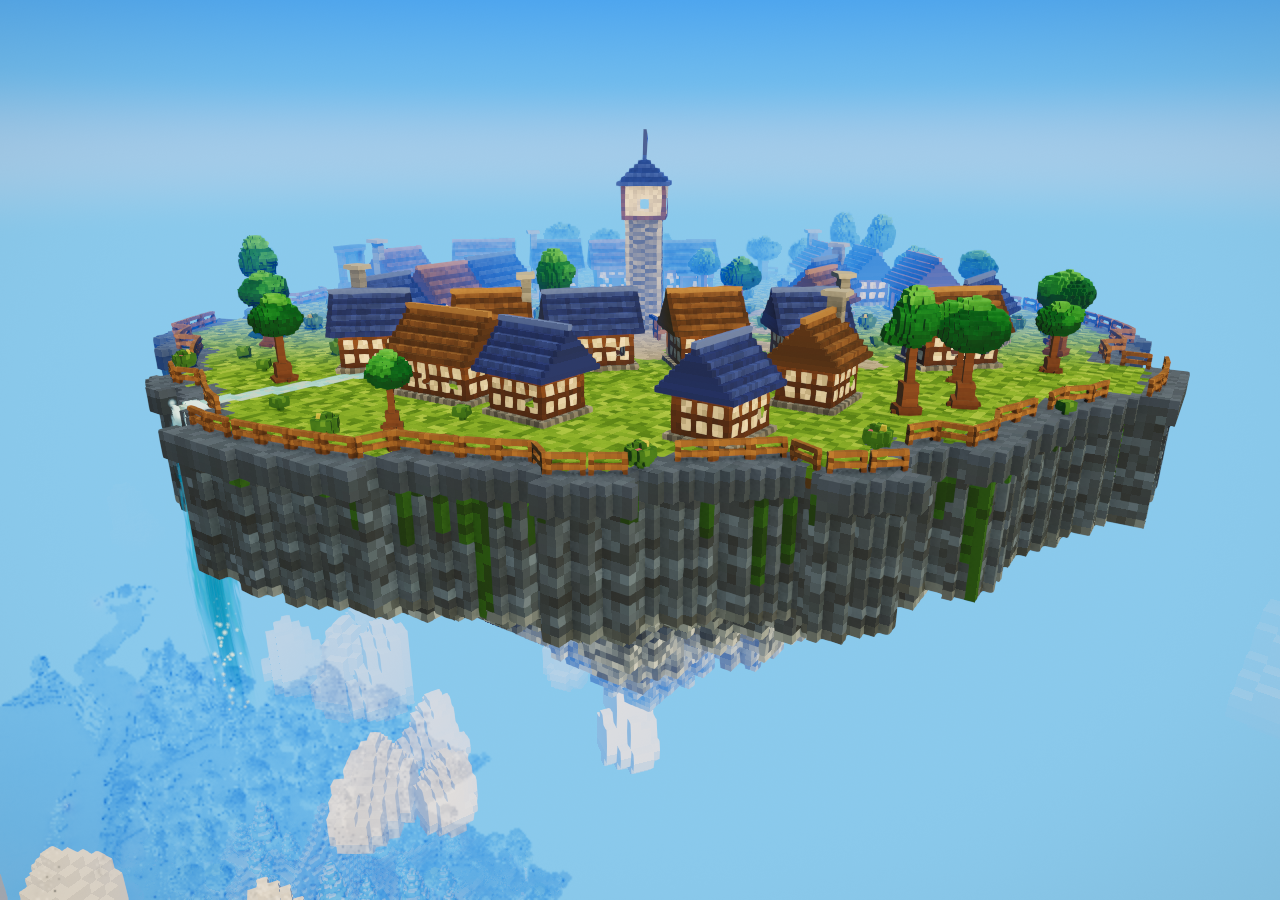
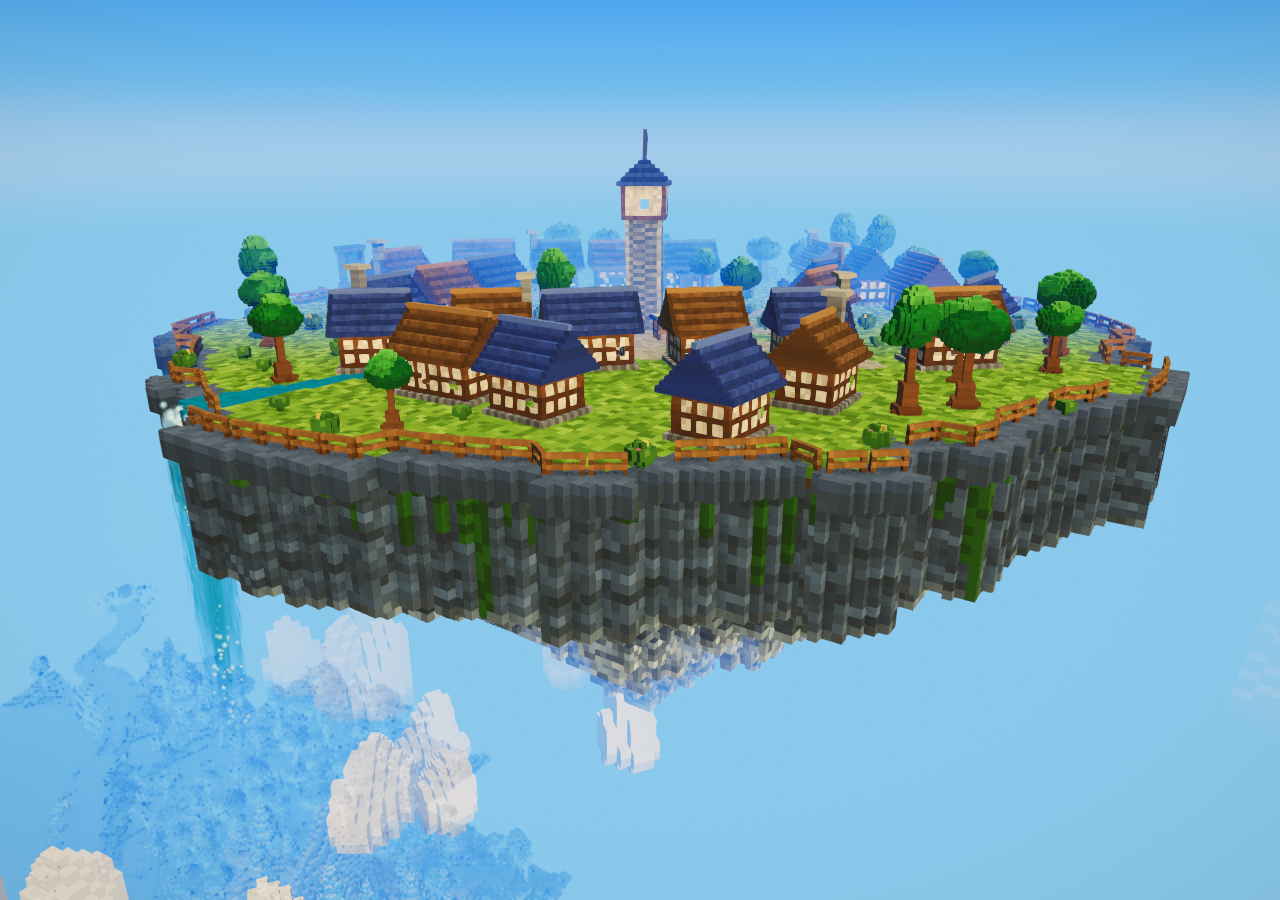
The lip is where a fall is judged (issue #86)
Five fixes, all found by playing rather than by a probe, and four of them
are at the LIP — which is the one place a player is guaranteed to walk to
and look closely, because that is where you go to see the drop.

THE ANCHOR IS ON THE OUTLINE, not a cell inboard of it. The voxel fall
started inboard and that was right for cubes: they were part of the rock
mesh, so a fall hung off the last column had nothing drawn above its
head. A sheet is a separate object standing clear of the rock, and
starting it inboard tucks its head UNDER the rim — the water appears to
come out of the cliff face a course below the turf instead of going over
the edge.

THE CHANNEL FLARES TO THE FALL'S OWN WIDTH. It ran at a constant 1.9 of
half-width, about three cells, and the plume leaves six across, so the
outermost columns either side of the water came out as the rim's grey
stone. `FALL_LIP` is now one constant feeding both `onStream`'s mouth and
the effect's `lipWidth`, so they cannot drift apart. Its outer bound is
gone too: it stopped at `ISLAND_R`, the radius of a CIRCLE, but the
outline is a lobed stagger and the projection is shorter off the
centreline, so the test refused the last column on some bearings and not
on others. The column loop already skips everything past the outline.

ONE BEND, NOT AN S. The wander was carried over from the voxel fall as a
rate per world unit, which over a 48-unit drop is one and a third cycles.
[…]

Changed region(s): [[0.125, 0.4044, 0.2812, 0.7778]]

diff --git a/src/world/sky-island.ts b/src/world/sky-island.ts
@@ -695,9 +695,20 @@ const PATH_D = 0x9e9787;
 /** Tilled soil: the garden plots between the houses. */
 const TILL = 0x6a4a2c;
 const TILL_D = 0x513716;
-/** The stream and the fall. Pale, so it stays visible against the sky. */
-const WATER = 0x8fd8ec;
-const WATER_L = 0xbceaf6;
+/**
+ * The stream on the deck. (The FALL is world/waterfall.ts and carries its own.)
+ *
+ * SPEC §6's teal, and it used to be a pale 0x8fd8ec / 0xbceaf6 chosen to "stay
+ * visible against the sky" — which was solving the wrong problem, because the
+ * channel is seen against GRASS from above and against grass and rim-stone at
+ * the lip; the sky is behind the fall, not behind the stream. Read close up at
+ * the outflow the pale version was almost white, and it met the fall's SPEC
+ * teal in a hard step at exactly the spot a player walks to and looks over.
+ * These are SPEC §6's `#1E8AA2` lit and `#1E7E96` body, which is what the fall
+ * is built from — one water colour on this island now, not two.
+ */
+const WATER = 0x1e7e96;
+const WATER_L = 0x1e8aa2;
 
 /** Per-voxel value jitter, so a face is not one flat colour. */
 function shade(hex: number, k: number): number {
@@ -763,6 +774,18 @@ interface SkyPlan {
  * the market, and every street runs to its rim.
  */
 const PLAZA = 19;
+
+/**
+ * How wide the water is where it leaves the rim, in world units.
+ *
+ * ONE NUMBER FOR TWO THINGS, and that is the point: it is the effect's
+ * `lipWidth` AND the width the stream channel flares to at its mouth. They were
+ * separate at first — a 3.8-unit channel feeding a 7.2-unit plume — and the
+ * result is a ring of rim-stone showing either side of the water at the exact
+ * spot the player walks to and looks over. 2 map-blocks, which is what SPEC §6
+ * gives the lip.
+ */
+const FALL_LIP = MAP_BLOCK * 2 * CELL;
 /** The band the dwellings stand in, as fractions of the island radius. */
 const HOUSE_IN = 0.34;
 const HOUSE_OUT = 0.62;
@@ -1467,6 +1490,9 @@ export class SkyIsland extends CarrierBody implements NpcFrame {
         // dissolves there rather than stopping square, which is what SPEC §6
         // asks for and what the cubes were tuned to.
         length: 40 * CELL,
+        // The same constant `onStream` flares its mouth to, so the water on the
+        // deck and the water going over it are the same width by construction.
+        lipWidth: FALL_LIP,
         // A LIGHT, STEADY DRIFT. The island cruises at 1 unit/s, so the plume
         // is not being blown by its own passage — this is the prevailing wind
         // at altitude, and it is small because the fall's own wander already
@@ -1845,18 +1871,22 @@ export class SkyIsland extends CarrierBody implements NpcFrame {
   /**
    * The rim column the fall leaves from, in the island's own frame.
    *
-   * Lifted verbatim out of the voxel fall this replaced, so the effect starts
-   * on exactly the column the cubes did: one cell INBOARD of the outline,
-   * because a fall has to leave a lip you can stand at and look over. Starting
-   * it half a cell past the edge — which an earlier pass did — hangs it in the
-   * air beside the island like a pipe with nothing at the top of it.
+   * ON the outline, not one cell inboard of it.
+   *
+   * The voxel fall this replaced started a cell in, and that was right for
+   * CUBES: they were part of the rock mesh, so a fall hung off the last column
+   * had nothing drawn above its head. A sheet is a separate object standing
+   * clear of the rock, and starting it inboard tucks its head UNDER the rim —
+   * the water appears to come out of the cliff face a course below the turf
+   * instead of going over the edge, which is the one thing a lip has to read
+   * as. Reported from play.
    *
    * Local y is 0, which is the TOP of the turf course and therefore what
    * `localDeck` answers: the water leaves at the surface it has been running
    * along, not at the rim's rock.
    */
   private fallAnchor(plan: SkyPlan): { x: number; y: number; z: number } {
-    const rimD = outlineAt(plan.fallAngle, this.phase) - 1;
+    const rimD = outlineAt(plan.fallAngle, this.phase);
     const gx0 = Math.round(Math.sin(plan.fallAngle) * rimD);
     const gz0 = Math.round(Math.cos(plan.fallAngle) * rimD);
     // Cell CENTRES, matching how `buildRock` converts a cell to a world column.
@@ -1898,14 +1928,43 @@ export class SkyIsland extends CarrierBody implements NpcFrame {
     const onPlot = (wx: number, wz: number): boolean =>
       plan.plots.some((g) => (wx - g.x) ** 2 + (wz - g.z) ** 2 < g.r * g.r);
 
-    /** The stream: a two-cell channel from the square to the rim. */
+    /**
+     * The stream: a two-cell channel from the square to the rim, FLARING to the
+     * fall's own lip width over its last stretch.
+     *
+     * THE MOUTH HAS TO BE AS WIDE AS THE FALL. At a constant 1.9 of half-width
+     * the channel is about three cells across and the plume leaves six across,
+     * so the outermost columns either side of the water came out as the rim's
+     * grey stone — and the one place a player is guaranteed to stand and look
+     * closely at this is the lip, because that is where you go to see the drop.
+     * `FALL_LIP` is the same constant the effect is built from, so the two
+     * cannot drift apart.
+     *
+     * NO OUTER BOUND. It used to stop at `ISLAND_R`, which is the radius of a
+     * CIRCLE — but the outline is a lobed stagger that reaches 0.998 of it at
+     * the peak and the projection `along` is shorter still off the centreline,
+     * so the test could refuse the last column or two on some bearings and not
+     * on others. The column loop already skips everything past the outline;
+     * there is nothing out there for this to answer about.
+     */
     const fx = Math.sin(plan.fallAngle);
     const fz = Math.cos(plan.fallAngle);
     const onStream = (wx: number, wz: number): boolean => {
       const along = wx * fx + wz * fz;
-      if (along < PLAZA * 0.7 || along > ISLAND_R) return false;
+      if (along < PLAZA * 0.7) return false;
       const across = Math.abs(wx * fz - wz * fx);
-      return across < 1.9;
+      // Flare over the last THIRD of the run, so the channel reads as a stream
+      // widening into a mouth rather than as a funnel bolted to a pipe. A fifth
+      // was the first try and it is too short: smoothstep spends most of its
+      // range near its ends, so over 19 units the widening happened almost
+      // entirely in the last four and the mouth still read as a pipe.
+      const t = Math.max(0, Math.min(1, (along - ISLAND_R * 0.66) / (ISLAND_R * 0.34)));
+      const flare = t * t * (3 - 2 * t);
+      // A full cell of margin past the plume's own half-width: the water has to
+      // reach UNDER the sheet's edge, not merely meet it, or the outermost
+      // column either side of the fall comes back as rim-stone.
+      const halfW = 1.9 + flare * (FALL_LIP * 0.5 + CELL - 1.9);
+      return across < halfW;
     };
 
     for (let gx = -R; gx <= R; gx++) {

diff --git a/src/world/waterfall.ts b/src/world/waterfall.ts
@@ -195,13 +195,27 @@ const MASK = 256;
 const PUSH_EXP = 1.35;
 
 /**
- * ...and it WANDERS. Carried over from the voxel fall, which tuned it in cells:
- * `sin(k * 0.21) * 1.4` at CELL 1.2 is 0.21/1.2 = 0.175 rad per world unit and
- * 1.4 * 1.2 = 1.68 units of amplitude. A perfectly straight column reads as a
- * ruler drawn on the sky.
+ * ...and it BOWS. A perfectly straight column reads as a ruler drawn on the sky.
+ *
+ * ONE BEND, and that is the whole of this constant. It was carried over from
+ * the voxel fall as a rate per world unit (0.175 rad/unit, from `sin(k * 0.21)`
+ * in cells), which over a 48-unit drop is one and a third CYCLES — an S. On a
+ * fall you can walk around, an S reads as two separate mid-air kinks with
+ * nothing to have caused either, and it was the first thing reported from play.
+ * Half a period over the whole fall, whatever the fall's length, is a plume
+ * that leans out and comes back: one bend, and it stays one bend on a three-
+ * unit weir and on a fifty-unit drop alike.
+ *
+ * `WANDER_TURNS` is in HALF-PERIODS, so 1 is a single arch. Push it past 2 and
+ * the S is back.
  */
-const WANDER_K = 0.175;
+const WANDER_TURNS = 1.0;
 const WANDER_A = 1.68;
+
+/** Lateral offset of the bow at `v`, in world units. See `WANDER_TURNS`. */
+function wander(v: number): number {
+  return Math.sin(v * Math.PI * WANDER_TURNS) * WANDER_A;
+}
 
 /**
  * V-curve. `uv.y = pow(v, UV_EASE) * tiles` stretches the texture toward the
@@ -482,7 +496,16 @@ void main() {
   // The head is nearly opaque regardless, for the same reason world/water.ts
   // forces its surf band to 0.95: at gameplay distance it is the ALPHA and not
   // the colour that makes a white band read.
-  alpha = max(alpha, head * 0.92 * edge);
+  alpha = max(alpha, head * 0.75 * edge);
+
+  // ...but the TOP EDGE fades in, and that is what stops the head reading as a
+  // slab. The sheets are splayed about the fall's axis, so from a camera above
+  // the deck their top rows stack up into three overlapping quads at full
+  // head-foam white — a hard-edged paving stone lying at the lip, which is
+  // exactly what it looked like from the fence. Fading the first courses lets
+  // the channel behind show through them, so the water arrives at the edge and
+  // goes over it instead of starting there.
+  alpha *= smoothstep(0.0, 0.045, vLife);
 
   gl_FragColor = vec4(col, alpha * uOpacity);
   #include <fog_fragment>
@@ -850,20 +873,28 @@ export class Waterfall {
         : 0;
       const ax = Math.cos(a);
       const az = Math.sin(a);
-      const nx = -Math.sin(a);
-      const nz = Math.cos(a);
       const base = pos.length / 3;
       for (let i = 0; i < rows; i++) {
         const v = i / segments;
         const halfW = this.widthAt(v) * 0.5;
         const drift = this.lateralPush * Math.pow(v, PUSH_EXP)
-          + Math.sin(v * this.fallLength * WANDER_K) * WANDER_A;
+          + wander(v);
         const along = this.outwardPush * Math.pow(v, PUSH_EXP);
         const cy = -this.fallLength * v;
         const uvY = Math.pow(v, UV_EASE) * tiles;
         for (const s of [-1, 1]) {
           pos.push(drift + ax * halfW * s, cy, along + az * halfW * s);
-          nrm.push(nx, 0, nz);
+          // EVERY SHEET TAKES THE FALL'S OWN NORMAL, not its own geometric one.
+          //
+          // The splay is a trick for giving a flat thing a silhouette from every
+          // bearing; it is not three surfaces at three angles, it is one body of
+          // water. Shading each sheet by its own normal puts the outer two at
+          // sun dots of 0.03 and 0.71 against the middle's 0.44 — three flat
+          // panels in three distinct values, which from above the deck reads as
+          // a hard-edged grey-and-white slab lying at the lip rather than as
+          // churn. Reported from play. Downstream (+Z) is the face the water
+          // presents, and the modelMatrix turns it with the island.
+          nrm.push(0, 0, 1);
           uvs.push(s < 0 ? 0 : 1, uvY);
           life.push(v);
           across.push(halfW * s);
@@ -875,28 +906,20 @@ export class Waterfall {
       }
     }
 
-    // THE LIP CAP. Flat, one quad deep, upstream of the anchor. `aLife` is 0 so
-    // the head-foam term whites it out and the dissolve never touches it.
-    const capW = this.lipWidth * 0.5;
-    const capD = TILE_U * 0.5;
-    const CAP_COLS = 4;
-    const capBase = pos.length / 3;
-    for (let c = 0; c <= CAP_COLS; c++) {
-      const t = c / CAP_COLS;
-      const xw = (t * 2 - 1) * capW;
-      for (const zi of [0, 1]) {
-        // zi 0 is upstream of the lip, zi 1 is at it.
-        pos.push(xw, 0.06, -capD * (1 - zi));
-        nrm.push(0, 1, 0);
-        uvs.push(t, (1 - zi) * 0.75);
-        life.push(0);
-        across.push(xw);
-      }
-      if (c < CAP_COLS) {
-        const q = capBase + c * 2;
-        idx.push(q, q + 1, q + 2, q + 1, q + 3, q + 2);
-      }
-    }
+    // THERE IS NO LIP CAP, and there was one.
+    //
+    // It was four flat quads lying just above the owner's surface at the head of
+    // the fall, there to hide the seam where an opaque water channel meets a
+    // translucent sheet. Two things removed the seam it was hiding: the owner
+    // now anchors the fall ON its outline rather than a cell inboard, and the
+    // channel feeding it flares to this same `lipWidth` (see `onStream` in
+    // world/sky-island.ts). With nothing left to cover, what the cap actually
+    // did was read as a hard-edged white SLAB sitting on the grass — a
+    // horizontal quad at `aLife` 0 is fully whited by the head-foam term, and
+    // from any camera above the deck it is a paving stone rather than water.
+    //
+    // If a future site needs one, the seam it covers is the owner's problem to
+    // state, not this module's to guess at.
 
     const g = new THREE.BufferGeometry();
     g.setAttribute('position', new THREE.BufferAttribute(new Float32Array(pos), 3));
@@ -932,7 +955,7 @@ export class Waterfall {
 
     this.py[i] = -this.fallLength * v0;
     this.px[i] = this.lateralPush * Math.pow(v0, PUSH_EXP)
-      + Math.sin(v0 * this.fallLength * WANDER_K) * WANDER_A
+      + wander(v0)
       + (r() * 2 - 1) * halfW * 1.15;
     this.pz[i] = this.outwardPush * Math.pow(v0, PUSH_EXP) + (r() * 2 - 1) * 1.1;
 
